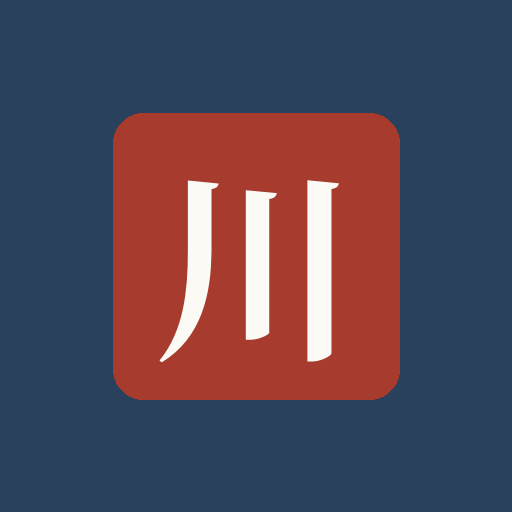
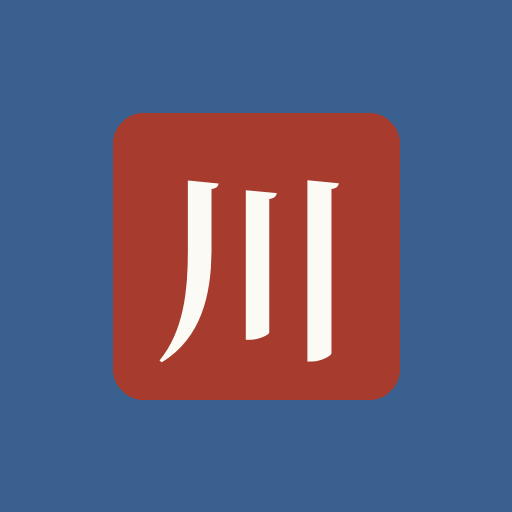
アイコンの背景を明るい青に変更

diff --git a/index.html b/index.html
@@ -5,7 +5,7 @@
 <meta name="viewport" content="width=device-width, initial-scale=1, viewport-fit=cover">
 <title>川柳ストック</title>
 <link rel="manifest" href="manifest.webmanifest">
-<meta name="theme-color" content="#29415C">
+<meta name="theme-color" content="#3A6090">
 <link rel="icon" href="icon-192.png">
 <link rel="apple-touch-icon" href="icon-192.png">
 <link rel="preconnect" href="https://fonts.googleapis.com">
